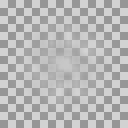
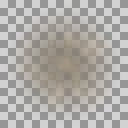
effects: denser dusty smoke so tiny bullet-impact puffs stay visible

diff --git a/tools/artgen/effects.py b/tools/artgen/effects.py
@@ -80,9 +80,12 @@ def smoke_image(seed=20261018):
     px = im.load()
     for y in range(SIZE):
         for x in range(SIZE):
-            a = _radial_alpha(x, y, MAXR - 1, power=1.4)
-            if a <= 0:
+            # Fuller core than a linear cone: bullet-impact puffs are drawn tiny
+            # (objectmanager.cpp:1032) at 0.625 alpha and must still read.
+            d = math.hypot(x - CENTER, y - CENTER) / (MAXR - 1)
+            if d >= 1.0:
                 continue
+            a = 255 * (1.0 - d * d) ** 1.8
             nx, ny = x * (nlo - 1) / (SIZE - 1), y * (nlo - 1) / (SIZE - 1)
             ix, iy = int(nx), int(ny)
             fx, fy = nx - ix, ny - iy
@@ -90,10 +93,11 @@ def smoke_image(seed=20261018):
             top = noise[iy][ix] * (1 - fx) + noise[iy][ix1] * fx
             bot = noise[iy1][ix] * (1 - fx) + noise[iy1][ix1] * fx
             n = top * (1 - fy) + bot * fy
-            grey = int(round(190 + 25 * n))
-            grey = max(0, min(255, grey))
-            a = max(0, min(255, int(round(a * (1.0 + 0.15 * n)))))
-            px[x, y] = (grey, grey, grey, a)
+            # Dusty grey-brown, darker than pale walls so impacts stay visible.
+            k = 1.0 + 0.18 * n
+            col = tuple(max(0, min(255, int(round(c * k)))) for c in (150, 140, 124))
+            a = max(0, min(255, int(round(a * (1.0 + 0.25 * n)))))
+            px[x, y] = col + (a,)
     return im
 
 
